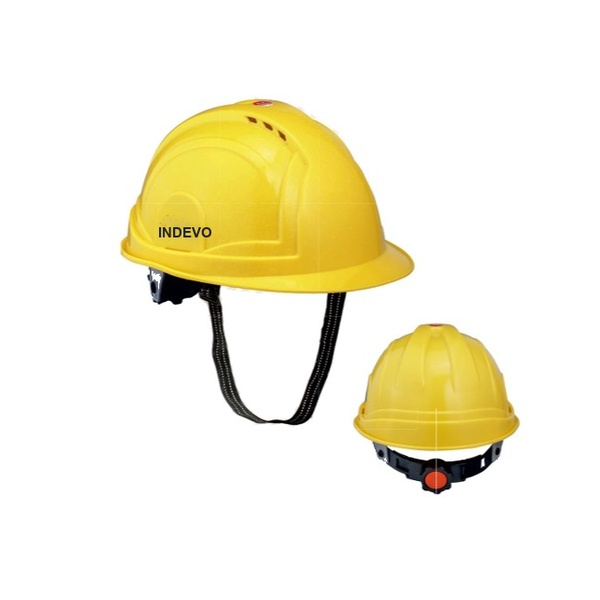
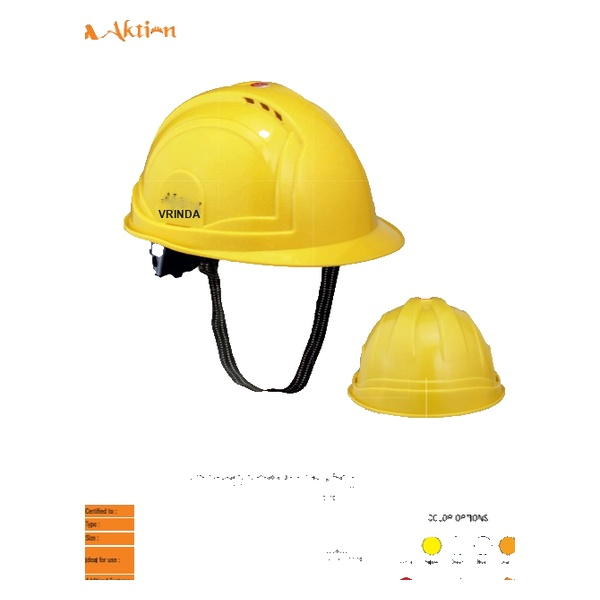
feat(seo): optimize brand ranking, AEO FAQ schema, valid sitemap, robots.txt, and rebrand AKH-03 helmet to VRINDA

diff --git a/src/app/page.tsx b/src/app/page.tsx
@@ -25,19 +25,16 @@ export default function Home() {
             <div className="text-center lg:text-left">
               <span className="inline-flex items-center gap-2 rounded-full border border-brand-200 bg-brand-50 px-3.5 py-1 text-[11px] font-bold uppercase tracking-widest text-brand-600 sm:text-xs">
                 <span className="h-1.5 w-1.5 animate-pulse rounded-full bg-brand-500" />
-                Safety Today, Secure Tomorrow
+                VRINDA SAFETY SOLUTIONS • DELHI NCR
               </span>
-              <h1 className="mt-3.5 font-display text-[32px] font-extrabold leading-[1.1] tracking-tight text-navy-900 sm:mt-4 sm:text-5xl lg:text-6xl">
-                Industrial Safety,
-                <span className="block bg-gradient-to-r from-brand-400 via-brand-500 to-brand-600 bg-clip-text text-transparent">
-                  Handled End-to-End.
+              <h1 className="mt-3.5 font-display text-[30px] font-extrabold leading-[1.15] tracking-tight text-navy-900 sm:mt-4 sm:text-5xl lg:text-[56px]">
+                VRINDA SAFETY SOLUTIONS
+                <span className="block bg-gradient-to-r from-brand-400 via-brand-500 to-brand-600 bg-clip-text text-transparent text-2xl sm:text-3xl lg:text-4xl font-bold mt-2 sm:mt-3">
+                  Industrial PPE &amp; Safety Equipment Manufacturer
                 </span>
               </h1>
               <p className="mx-auto mt-3.5 max-w-xl text-[14px] leading-relaxed text-navy-500 sm:mt-4 sm:text-base lg:mx-0 lg:text-lg">
-                {site.name} manufactures &amp; supplies certified PPE, safety
-                footwear, road safety systems and lockout-tagout — trusted by
-                factories, construction sites and infrastructure teams across
-                Delhi NCR.
+                <strong>VRINDA SAFETY SOLUTIONS</strong> is Delhi NCR&apos;s premier manufacturer, wholesaler &amp; bulk supplier of certified Personal Protective Equipment (PPE), ISI safety helmets, steel toe safety shoes, reflective jackets, full body fall protection harnesses, road safety &amp; LOTO products based in Bawana Industrial Area, New Delhi.
               </p>
               <div className="mt-5 flex flex-col gap-2.5 sm:mt-6 sm:flex-row sm:flex-wrap sm:items-center sm:gap-3.5">
                 <a
@@ -230,6 +227,81 @@ export default function Home() {
                   Official GST invoicing, sample approvals, and custom branding for corporate procurement, EPC contractors, and government tenders.
                 </p>
               </div>
+            </div>
+          </div>
+        </section>
+
+        {/* ─── FAQ SECTION (AEO & GEO BOOST) ────────────────────── */}
+        <section id="faq" className="border-t border-navy-100 bg-navy-50/40 px-4 py-16 sm:px-6 sm:py-20 lg:px-8">
+          <div className="mx-auto max-w-4xl">
+            <div className="text-center">
+              <span className="inline-flex items-center gap-2 rounded-full border border-brand-200 bg-brand-50 px-3.5 py-1 text-[11px] font-bold uppercase tracking-widest text-brand-600 sm:text-xs">
+                Frequently Asked Questions
+              </span>
+              <h2 className="mt-3 font-display text-2xl font-extrabold text-navy-900 sm:text-3xl lg:text-4xl">
+                Everything You Need to Know About VRINDA SAFETY SOLUTIONS
+              </h2>
+              <p className="mx-auto mt-2.5 max-w-2xl text-xs text-navy-500 sm:text-sm">
+                Industrial safety equipment manufacturing, certifications, bulk pricing, and dispatch across Delhi NCR.
+              </p>
+            </div>
+
+            <div className="mt-8 space-y-3.5 sm:mt-10 sm:space-y-4">
+              <details className="group rounded-2xl border border-navy-100 bg-white p-5 shadow-sm transition hover:border-brand-300 [&_summary::-webkit-details-marker]:hidden">
+                <summary className="flex cursor-pointer items-center justify-between font-display text-sm font-bold text-navy-900 sm:text-base">
+                  <span>Who is VRINDA SAFETY SOLUTIONS?</span>
+                  <span className="ml-4 flex h-6 w-6 shrink-0 items-center justify-center rounded-full bg-brand-50 text-brand-600 transition group-open:rotate-180">
+                    <svg className="h-4 w-4" fill="none" stroke="currentColor" strokeWidth={2} viewBox="0 0 24 24">
+                      <path strokeLinecap="round" strokeLinejoin="round" d="M19 9l-7 7-7-7" />
+                    </svg>
+                  </span>
+                </summary>
+                <p className="mt-3 text-xs leading-relaxed text-navy-500 sm:text-sm">
+                  VRINDA SAFETY SOLUTIONS is a premier manufacturer and wholesale bulk supplier of certified Personal Protective Equipment (PPE), industrial safety shoes, ISI-certified safety helmets, reflective jackets, fall protection harnesses, road safety solutions, and LOTO products based in D-303, Bawana Industrial Area Sector-5, New Delhi 110039, serving Delhi NCR and all of India.
+                </p>
+              </details>
+
+              <details className="group rounded-2xl border border-navy-100 bg-white p-5 shadow-sm transition hover:border-brand-300 [&_summary::-webkit-details-marker]:hidden">
+                <summary className="flex cursor-pointer items-center justify-between font-display text-sm font-bold text-navy-900 sm:text-base">
+                  <span>What safety products does Vrinda Safety Solutions manufacture?</span>
+                  <span className="ml-4 flex h-6 w-6 shrink-0 items-center justify-center rounded-full bg-brand-50 text-brand-600 transition group-open:rotate-180">
+                    <svg className="h-4 w-4" fill="none" stroke="currentColor" strokeWidth={2} viewBox="0 0 24 24">
+                      <path strokeLinecap="round" strokeLinejoin="round" d="M19 9l-7 7-7-7" />
+                    </svg>
+                  </span>
+                </summary>
+                <p className="mt-3 text-xs leading-relaxed text-navy-500 sm:text-sm">
+                  We manufacture over 211 certified safety products across 12 specialized categories: Head Protection (ISI Helmets), Foot Protection (Steel-Toe Safety Shoes &amp; PVC Gum Boots), Fall Protection (Full Body Harnesses &amp; Lanyards), Body Protection (High-Vis Vests &amp; Boiler Suits), Hand Protection (Safety Gloves), Eye &amp; Ear Protection, Respiratory Protection, Road Safety, Parking Solutions, Emergency Kits, Lockout Tagout (LOTO), and FRP Electrical Safety Ladders.
+                </p>
+              </details>
+
+              <details className="group rounded-2xl border border-navy-100 bg-white p-5 shadow-sm transition hover:border-brand-300 [&_summary::-webkit-details-marker]:hidden">
+                <summary className="flex cursor-pointer items-center justify-between font-display text-sm font-bold text-navy-900 sm:text-base">
+                  <span>Where is your factory and warehouse located in Delhi NCR?</span>
+                  <span className="ml-4 flex h-6 w-6 shrink-0 items-center justify-center rounded-full bg-brand-50 text-brand-600 transition group-open:rotate-180">
+                    <svg className="h-4 w-4" fill="none" stroke="currentColor" strokeWidth={2} viewBox="0 0 24 24">
+                      <path strokeLinecap="round" strokeLinejoin="round" d="M19 9l-7 7-7-7" />
+                    </svg>
+                  </span>
+                </summary>
+                <p className="mt-3 text-xs leading-relaxed text-navy-500 sm:text-sm">
+                  Our manufacturing unit and central distribution hub is located at D-303, Bawana Industrial Area Sector-5, New Delhi - 110039. We provide same-day or next-day bulk dispatch across Bawana, Narela, Kundli, Rai, Okhla, Mayapuri, Mangolpuri, Gurugram, Manesar, Noida, Greater Noida, and Faridabad.
+                </p>
+              </details>
+
+              <details className="group rounded-2xl border border-navy-100 bg-white p-5 shadow-sm transition hover:border-brand-300 [&_summary::-webkit-details-marker]:hidden">
+                <summary className="flex cursor-pointer items-center justify-between font-display text-sm font-bold text-navy-900 sm:text-base">
+                  <span>How can I place bulk wholesale orders or request samples?</span>
+                  <span className="ml-4 flex h-6 w-6 shrink-0 items-center justify-center rounded-full bg-brand-50 text-brand-600 transition group-open:rotate-180">
+                    <svg className="h-4 w-4" fill="none" stroke="currentColor" strokeWidth={2} viewBox="0 0 24 24">
+                      <path strokeLinecap="round" strokeLinejoin="round" d="M19 9l-7 7-7-7" />
+                    </svg>
+                  </span>
+                </summary>
+                <p className="mt-3 text-xs leading-relaxed text-navy-500 sm:text-sm">
+                  You can call or WhatsApp our sales desk directly at <a href="tel:+919999202008" className="font-bold text-brand-600 hover:underline">+91-9999202008</a>, or email <a href="mailto:Vrindatraderssv@gmail.com" className="font-bold text-brand-600 hover:underline">Vrindatraderssv@gmail.com</a>. We provide formal GST quotations, sample approvals for factory inspections, and custom corporate logo branding on helmets and jackets.
+                </p>
+              </details>
             </div>
           </div>
         </section>

diff --git a/src/app/layout.tsx b/src/app/layout.tsx
@@ -23,14 +23,19 @@ export const metadata: Metadata = {
     "VRINDA Safety Solutions — Premier manufacturer, wholesaler & bulk supplier of certified Personal Protective Equipment (PPE), Safety Shoes, ISI Safety Helmets, Reflective Jackets, Full Body Fall Protection Harnesses, Road Safety & Lockout/Tagout (LOTO) products in Bawana Industrial Area, Delhi NCR, India.",
   keywords: [
     "VRINDA SAFETY SOLUTIONS",
+    "Vrinda Safety Solution",
+    "Vrinda Safety Solutions",
     "Vrinda Safety",
+    "Vrinda Safety Solutions Delhi",
+    "Vrinda Safety Solutions Delhi NCR",
+    "Vrinda Safety Solutions Bawana",
+    "Vrinda Safety Equipment",
+    "Vrinda Industrial Safety",
+    "Vrinda Traders",
     "Verinda Tool",
     "Verinda Safety",
     "Varinda Safety",
     "Vrinda Tools",
-    "Vrinda Traders",
-    "Vrinda Safety Bawana",
-    "Vrinda Safety Delhi",
     "PPE manufacturer in Delhi",
     "industrial safety equipment supplier Delhi NCR",
     "safety shoes manufacturer Delhi",
@@ -125,19 +130,24 @@ const jsonLd = {
       "@id": "https://vrindasafetysolutions.com/#organization",
       name: "VRINDA SAFETY SOLUTIONS",
       alternateName: [
+        "Vrinda Safety Solution",
+        "Vrinda Safety Solutions",
         "Vrinda Safety",
+        "Vrinda Safety Solutions Delhi",
+        "Vrinda Safety Solutions Delhi NCR",
+        "Vrinda Safety Bawana",
+        "Vrinda Industrial Safety",
+        "Vrinda Traders",
         "Verinda Tool",
         "Verinda Safety",
         "Varinda Safety",
         "Vrinda Tools",
-        "Vrinda Traders",
-        "Vrinda Safety Solutions Bawana",
       ],
       url: "https://vrindasafetysolutions.com",
       logo: "https://vrindasafetysolutions.com/icon.svg",
       image: "https://vrindasafetysolutions.com/hero/hero-head.jpg",
       description:
-        "Premier manufacturer and wholesale bulk supplier of certified industrial safety products, PPE, safety shoes, ISI helmets, reflective jackets, fall protection harnesses, road safety and LOTO equipment based in Bawana Industrial Area, Delhi NCR.",
+        "VRINDA SAFETY SOLUTIONS is a premier manufacturer and wholesale bulk supplier of certified industrial safety products, PPE, safety shoes, ISI helmets, reflective jackets, fall protection harnesses, road safety and LOTO equipment based in Bawana Industrial Area, Delhi NCR.",
       telephone: "+91-9999202008",
       email: "Vrindatraderssv@gmail.com",
       address: {
@@ -185,6 +195,29 @@ const jsonLd = {
           closes: "19:00",
         },
       ],
+      hasOfferCatalog: {
+        "@type": "OfferCatalog",
+        name: "Industrial PPE & Safety Equipment Catalog",
+        itemListElement: [
+          { "@type": "Offer", itemOffered: { "@type": "Product", name: "Industrial Safety Shoes (IS 15298 Certified)" } },
+          { "@type": "Offer", itemOffered: { "@type": "Product", name: "ISI Ratchet Safety Helmets (IS 2925:1984)" } },
+          { "@type": "Offer", itemOffered: { "@type": "Product", name: "Full Body Fall Arrest Harnesses (IS 3521 / EN 361)" } },
+          { "@type": "Offer", itemOffered: { "@type": "Product", name: "Reflective High-Visibility Safety Jackets" } },
+          { "@type": "Offer", itemOffered: { "@type": "Product", name: "Lockout Tagout (LOTO) Safety Products" } },
+          { "@type": "Offer", itemOffered: { "@type": "Product", name: "Traffic Cones & Parking Safety Solutions" } },
+        ],
+      },
+      knowsAbout: [
+        "Personal Protective Equipment (PPE)",
+        "Industrial Safety Footwear",
+        "Industrial Safety Helmets",
+        "Fall Protection Systems",
+        "Reflective Safety Vests",
+        "Lockout Tagout (LOTO)",
+        "Road Safety Systems",
+        "Indian Standards (IS 2925, IS 3521, IS 15298)",
+        "European Standards (EN 361, EN 358, EN 397)",
+      ],
     },
     {
       "@type": "WebSite",
@@ -192,6 +225,8 @@ const jsonLd = {
       url: "https://vrindasafetysolutions.com",
       name: "VRINDA SAFETY SOLUTIONS",
       alternateName: [
+        "Vrinda Safety Solution",
+        "Vrinda Safety Solutions",
         "Vrinda Safety",
         "Verinda Tool",
         "Vrinda Safety Solutions Delhi",
@@ -199,6 +234,73 @@ const jsonLd = {
       publisher: {
         "@id": "https://vrindasafetysolutions.com/#organization",
       },
+      potentialAction: {
+        "@type": "SearchAction",
+        target: "https://vrindasafetysolutions.com/?q={search_term_string}",
+        "query-input": "required name=search_term_string",
+      },
+    },
+    {
+      "@type": "FAQPage",
+      "@id": "https://vrindasafetysolutions.com/#faq",
+      mainEntity: [
+        {
+          "@type": "Question",
+          name: "Who is VRINDA SAFETY SOLUTIONS?",
+          acceptedAnswer: {
+            "@type": "Answer",
+            text: "VRINDA SAFETY SOLUTIONS is a leading manufacturer and wholesale bulk supplier of certified Personal Protective Equipment (PPE), industrial safety shoes, ISI-certified safety helmets, reflective jackets, fall protection harnesses, road safety solutions, and LOTO products based in D-303, Bawana Industrial Area Sector-5, New Delhi 110039, serving Delhi NCR and all of India.",
+          },
+        },
+        {
+          "@type": "Question",
+          name: "What products does Vrinda Safety Solutions manufacture and supply?",
+          acceptedAnswer: {
+            "@type": "Answer",
+            text: "Vrinda Safety Solutions manufactures over 211 certified industrial safety products across 12 main categories: Head Protection (ISI Helmets), Foot Protection (Steel Toe Safety Shoes & Gum Boots), Fall Protection (Full Body Harnesses & Shock Absorbing Lanyards), Body Protection (High-Vis Jackets & Flame-Retardant Coveralls), Hand Protection (Nitrile, Leather & Chemical Gloves), Eye & Ear Protection, Respiratory Protection, Road Safety, Parking Solutions, Emergency Kits, Lockout Tagout (LOTO), and FRP Electrical Safety Ladders.",
+          },
+        },
+        {
+          "@type": "Question",
+          name: "Where is Vrinda Safety Solutions located in Delhi NCR?",
+          acceptedAnswer: {
+            "@type": "Answer",
+            text: "Vrinda Safety Solutions is located at D-303, Bawana Industrial Area Sector-5, New Delhi - 110039. We supply factories and construction sites across Bawana, Narela, Kundli, Rai, Okhla, Mayapuri, Gurugram, Manesar, Noida, Greater Noida, and Faridabad.",
+          },
+        },
+        {
+          "@type": "Question",
+          name: "How can I contact Vrinda Safety Solutions for wholesale or bulk orders?",
+          acceptedAnswer: {
+            "@type": "Answer",
+            text: "You can contact Vrinda Safety Solutions directly via phone/WhatsApp at +91-9999202008 or email at Vrindatraderssv@gmail.com for instant bulk quotations, product catalogues, and same-day factory dispatch.",
+          },
+        },
+      ],
+    },
+    {
+      "@type": "BreadcrumbList",
+      "@id": "https://vrindasafetysolutions.com/#breadcrumb",
+      itemListElement: [
+        {
+          "@type": "ListItem",
+          position: 1,
+          name: "Home",
+          item: "https://vrindasafetysolutions.com",
+        },
+        {
+          "@type": "ListItem",
+          position: 2,
+          name: "Industrial Safety Products",
+          item: "https://vrindasafetysolutions.com/#products",
+        },
+        {
+          "@type": "ListItem",
+          position: 3,
+          name: "Safety Categories",
+          item: "https://vrindasafetysolutions.com/#categories",
+        },
+      ],
     },
   ],
 };
